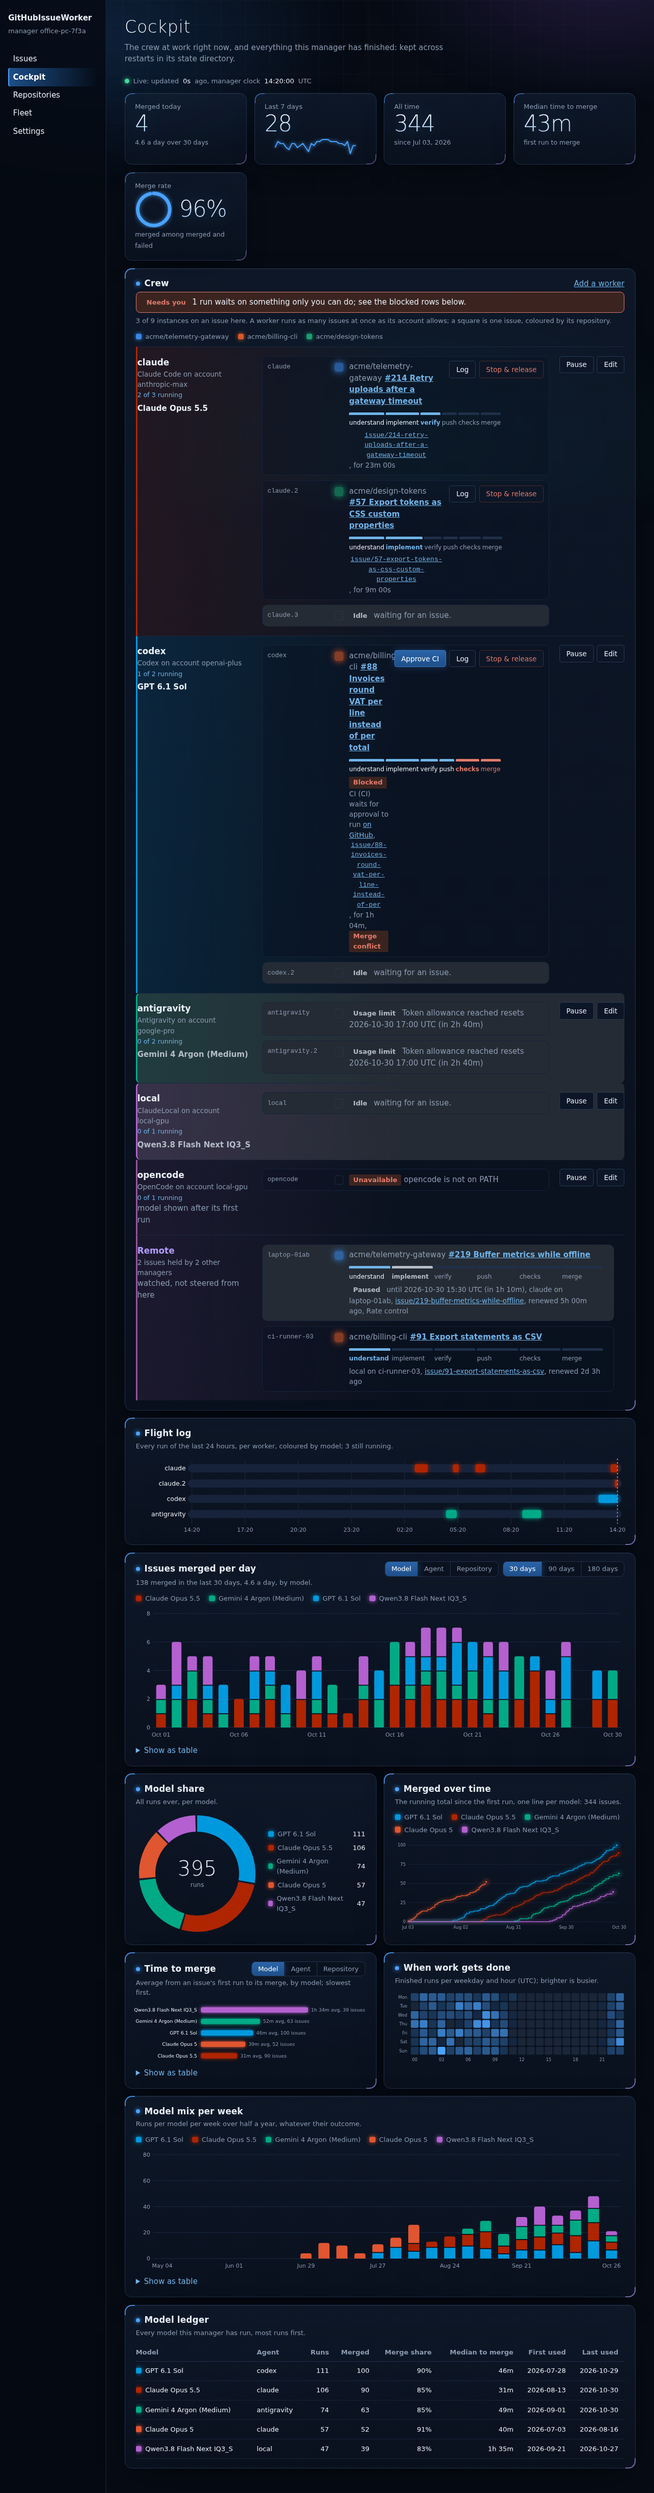
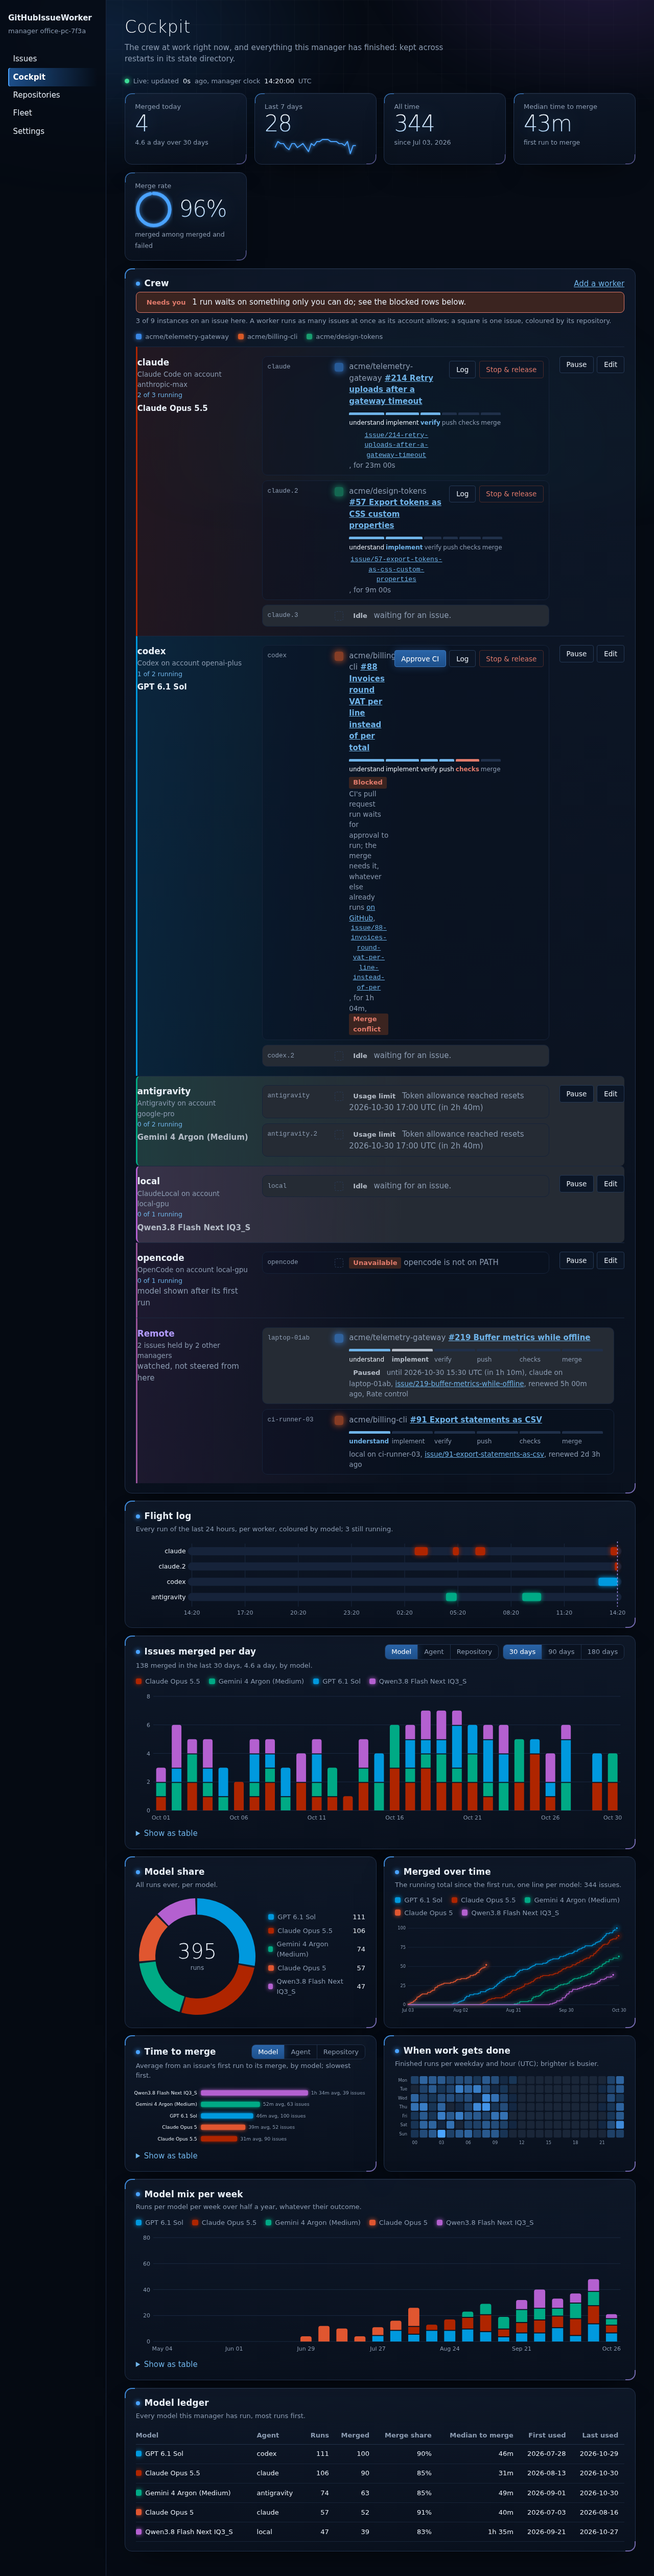
# blockers: precise, one active chip, own CI approved (#56)
# an approved, running run no longer counts as waiting
* the blocker names which run waits and that the merge needs it
* one active step chip; conflicts and blockers mark only the current one
+ CI of the repository own branches is approved by the manager

diff --git a/src/github_issue_worker/application/issue_run.py b/src/github_issue_worker/application/issue_run.py
@@ -29,7 +29,13 @@ from github_issue_worker.domain.split import (
 from github_issue_worker.domain.work import RunKind
 from github_issue_worker.ports.agents import AgentRun, RunReport
 from github_issue_worker.ports.clock import Clock
-from github_issue_worker.ports.repository import Blocker, Check, PullRequest, RepositoryHost
+from github_issue_worker.ports.repository import (
+    Blocker,
+    Check,
+    PullRequest,
+    RepositoryHost,
+    WaitingRun,
+)
 from github_issue_worker.ports.workspace import WorkspacePort
 from github_issue_worker.product import MARKER_PREFIX
 
@@ -65,6 +71,12 @@ _REBASE = frozenset({"dirty", "behind"})
 _FAILED = frozenset({"failure", "timed_out", "cancelled", "action_required", "startup_failure"})
 _NOT_STARTED = ("job was not started", "spending limit", "billing")
 """Signs that CI never ran the job, which no change to the code can repair (seen live)."""
+
+
+def _described(run: WaitingRun) -> str:
+    """ "CI's pull request run": which of the workflow's runs waits, by what started it."""
+    kind = {"pull_request": "pull request", "workflow_dispatch": "dispatched", "push": "push"}
+    return f"{run.name}'s {kind.get(run.event, run.event or 'held')} run"
 
 
 def _never_started(check: Check) -> bool:
@@ -417,27 +429,38 @@ class IssueRun:
                 return "ci", "The pull request's checks fail:\n\n" + "\n".join(lines)
             if self.clock.now() >= deadline:
                 return "timeout", ""
-            self._report_approvals(current)
-            self.sleep(self.settings.check_interval.total_seconds())
+            waiting = self._report_approvals(current)
+            # Someone may approve any moment: look again soon, so the blocker goes as soon as
+            # the runs start.
+            interval = self.settings.check_interval.total_seconds()
+            self.sleep(min(interval, 10.0) if waiting else interval)
 
     def _conflict(self, conflict: bool) -> None:
         self._handle = self.coordinator.set_merge_conflict(self._handle, conflict)
         self.conflict_changed(conflict)
 
-    def _report_approvals(self, current: PullRequest) -> None:
+    def _report_approvals(self, current: PullRequest) -> bool:
         """CI that GitHub holds back for approval would wait silently; say so where it shows."""
         waiting = self.host.waiting_for_approval(current.head_sha)
+        # Runs of this repository's own branch (the manager's pushes, the screenshot bot) are
+        # approved here; only a fork's need a person.
+        for run in waiting:
+            if run.own:
+                self._fenced(partial(self.host.approve_run, run.id))
+        waiting = [run for run in waiting if not run.own]
         if not waiting:
             self.blocked(None)
-            return
-        names = ", ".join(sorted({run.name for run in waiting}))
+            return False
+        names = ", ".join(sorted({_described(run) for run in waiting}))
         self.blocked(
             Blocker(
-                reason=f"CI ({names}) waits for approval to run",
+                reason=f"{names} {'waits' if len(waiting) == 1 else 'wait'} for approval to run; "
+                "the merge needs it, whatever else already runs",
                 url=waiting[0].url or current.url,
                 approvals=tuple(run.id for run in waiting),
             )
         )
+        return True
 
     def _merge(
         self, issue: Issue, pull: PullRequest, branch: str, tree: Path, base: str

diff --git a/tests/application/test_issue_run.py b/tests/application/test_issue_run.py
@@ -428,9 +428,36 @@ def test_conflict_detected_at_merge_is_checkpointed_before_the_merge_fails(
 def test_ci_waiting_for_approval_is_reported_as_a_blocker_until_it_runs(tmp_path: Path) -> None:
     h = Harness(tmp_path, lambda h: [step(h.workspace, ok())])
     h.host.states = ["blocked", "blocked", "clean"]
-    h.host.approvals = [[WaitingRun(7, "CI", "https://x/runs/7")], []]
+    h.host.approvals = [[WaitingRun(7, "CI", "https://x/runs/7", "pull_request")], []]
     seen: list[str | None] = []
     run = h.run(blocked=lambda blocker: seen.append(blocker.reason if blocker else None))
     assert run.kind == "merged"
-    assert seen[0] is not None and "waits for approval" in seen[0] and "CI" in seen[0]
+    assert seen[0] == (
+        "CI's pull request run waits for approval to run; the merge needs it, whatever else "
+        "already runs"
+    )
     assert seen[-1] is None  # cleared once the run started
+
+
+def test_while_ci_waits_for_approval_the_run_looks_again_within_ten_seconds(
+    tmp_path: Path,
+) -> None:
+    h = Harness(tmp_path, lambda h: [step(h.workspace, ok())])
+    h.host.states = ["blocked", "blocked", "clean"]
+    h.host.approvals = [[WaitingRun(7, "CI", "https://x/runs/7", "pull_request")], []]
+    slept: list[float] = []
+    original = h.clock.advance
+    h.clock.advance = lambda delta: (slept.append(delta.total_seconds()), original(delta))[1]  # type: ignore[method-assign]
+    assert h.run().kind == "merged"
+    assert slept[0] == 10.0  # blocked: soon again
+    assert slept[1] == 30.0  # no longer blocked: the normal interval
+
+
+def test_ci_of_the_repositorys_own_branch_is_approved_without_asking(tmp_path: Path) -> None:
+    h = Harness(tmp_path, lambda h: [step(h.workspace, ok())])
+    h.host.states = ["blocked", "clean"]
+    h.host.approvals = [[WaitingRun(9, "CI", "https://x/runs/9", "pull_request", own=True)], []]
+    seen: list[object] = []
+    assert h.run(blocked=seen.append).kind == "merged"
+    assert h.host.approved == [9]
+    assert all(blocker is None for blocker in seen)  # nobody was asked

diff --git a/tests/application/test_github_host.py b/tests/application/test_github_host.py
@@ -202,12 +202,40 @@ def test_runs_waiting_for_approval_are_found_and_approved() -> None:
         {
             ("GET", f"repos/{REPO}/actions/runs"): {
                 "workflow_runs": [
-                    {"id": 7, "name": "CI", "html_url": "https://x/runs/7"},
+                    {
+                        "id": 7,
+                        "name": "CI",
+                        "event": "pull_request",
+                        "status": "completed",
+                        "conclusion": "action_required",
+                        "html_url": "https://x/runs/7",
+                        "head_repository": {"full_name": "someone/fork"},
+                    },
+                    {
+                        "id": 9,
+                        "name": "CI",
+                        "event": "pull_request",
+                        "status": "completed",
+                        "conclusion": "action_required",
+                        "html_url": "https://x/runs/9",
+                        "head_repository": {"full_name": REPO},
+                    },
+                    # approved a moment ago and running: no longer waiting, whatever the filter
+                    {
+                        "id": 8,
+                        "name": "CI",
+                        "event": "pull_request",
+                        "status": "in_progress",
+                        "conclusion": None,
+                        "html_url": "https://x/runs/8",
+                    },
                 ]
             }
         }
     )
-    ((waiting),) = gh.waiting_for_approval("abc")
-    assert (waiting.id, waiting.name, waiting.url) == (7, "CI", "https://x/runs/7")
+    fork, own = gh.waiting_for_approval("abc")
+    assert (fork.id, fork.name, fork.url, fork.own) == (7, "CI", "https://x/runs/7", False)
+    assert fork.event == "pull_request"
+    assert (own.id, own.own) == (9, True)
     gh.approve_run(7)
     assert ("POST", f"repos/{REPO}/actions/runs/7/approve", None) in api.calls

diff --git a/tests/ui/test_app.py b/tests/ui/test_app.py
@@ -580,10 +580,13 @@ def test_a_run_blocked_on_ci_approval_says_so_and_can_be_approved(
     crew = html.split('aria-label="Crew"', 1)[1].split("</section>", 1)[0]
     assert "Needs you" in crew and "1 run waits on something only you can do" in crew
     codex = crew.split('aria-label="codex"', 1)[1].split("class=lane", 1)[0]
-    assert '"flag blocked">Blocked</span> CI (CI) waits for approval to run' in codex
+    assert (
+        '"flag blocked">Blocked</span> CI&#x27;s pull request run waits for approval to run'
+        in codex
+    )
     assert "https://github.com/acme/billing-cli/actions/runs/9120391" in codex
     assert 'action="/workers/codex/approve-ci"' in codex
-    assert "blocked: CI (CI) waits for approval to run" in client.get("/").text
+    assert "blocked: CI&#x27;s pull request run waits for approval to run" in client.get("/").text
 
     response = client.post("/workers/codex/approve-ci")
     assert response.status_code == 200 and backend.approved == ["codex"]
@@ -594,6 +597,9 @@ def test_a_run_blocked_on_ci_approval_says_so_and_can_be_approved(
 def test_a_blocked_runs_current_step_chip_is_marked_blocked(client: TestClient) -> None:
     crew = client.get("/workers").text.split('aria-label="Crew"', 1)[1].split("</section>", 1)[0]
     codex = crew.split('aria-label="codex"', 1)[1].split("class=lane", 1)[0]
-    assert '<span class="now blocked" aria-current="step" title="Blocked: CI (CI) waits' in codex
+    assert (
+        '<span class="now conflict blocked" aria-current="step" '
+        'title="Merge conflict; Blocked: CI&#x27;s pull request run waits'
+    ) in codex
     claude = crew.split('aria-label="claude"', 1)[1].split("class=lane", 1)[0]
     assert '<span class="now" aria-current="step">verify<' in claude  # active, not blocked

diff --git a/src/github_issue_worker/ui/pages.py b/src/github_issue_worker/ui/pages.py
@@ -422,7 +422,7 @@ svg.chart { display: block; width: 100%; height: auto; overflow: visible; }
     50% { border-top-color: #e2f2ff; color: #e2f2ff; background-color: #4aa3ff40;
       box-shadow: inset 0 18px 22px -6px #4aa3ff, 0 0 22px 0 #4aa3ffcc;
       text-shadow: 0 0 10px #4aa3ff, 0 0 3px #ffffff; } }
-  .track span.blocked { animation: alarm .6s ease-in-out infinite; }
+  .track span.blocked, .track span.conflict { animation: alarm .6s ease-in-out infinite; }
   @keyframes alarm {
     0%, 100% { box-shadow: inset 0 8px 10px -8px var(--brick); text-shadow: none;
       background-color: #e07a6b14; }
@@ -788,12 +788,15 @@ def _track(
     for index, name in enumerate(STEPS):
         css = "now" if index == position else "past" if index < position else ""
         title = ""
-        if name == "merge" and merge_conflict:
-            css = (css + " conflict").strip()
-            title = ' title="Merge conflict"'
-        elif index == position and blocked:
-            css = (css + " blocked").strip()
-            title = f' title="Blocked: {e(blocked)}"'
+        # One chip is active: the current step. Whatever needs the user marks it, and only it.
+        reasons = [
+            *(["Merge conflict"] if merge_conflict else []),
+            *([f"Blocked: {blocked}"] if blocked else []),
+        ]
+        if index == position and reasons:
+            marks = [*(["conflict"] if merge_conflict else []), *(["blocked"] if blocked else [])]
+            css = " ".join([css, *marks])
+            title = f' title="{e("; ".join(reasons))}"'
         elif index == position and waiting:
             css = (css + " waiting").strip()
         current = ' aria-current="step"' if index == position else ""

diff --git a/tests/ui/test_feedback_colors.py b/tests/ui/test_feedback_colors.py
@@ -48,15 +48,25 @@ def test_resource_wait_chip_preserves_reason_reset_and_conflict(state: WorkerSta
     html = _agent_row((worker,), NOW, {}, NO_COLOURS)
     assert f'class="flag {state}"' in html
     assert "Spending allowance reached" in html and "resets" in html
-    assert 'class="conflict"' in html and "Merge conflict" in html
+    assert "Merge conflict" in html
 
 
-def test_merge_chip_stays_red_during_repairs_and_clears_on_resolution() -> None:
+def test_a_merge_conflict_marks_the_current_chip_only_and_clears_on_resolution() -> None:
     for step in ("implement", "verify", "checks", "merge"):
         track = _track(step, merge_conflict=True)
-        assert ">merge</span>" in track and 'title="Merge conflict"' in track
-        assert 'class="conflict"' in track or 'class="now conflict"' in track
+        assert track.count('class="now conflict"') == 1  # exactly one chip needs the user
+        assert f'class="now conflict" aria-current="step" title="Merge conflict">{step}<' in track
     assert "conflict" not in _track("merge", merge_conflict=False)
+
+
+def test_there_is_only_ever_one_active_chip() -> None:
+    track = _track("checks", merge_conflict=True, blocked="CI waits")
+    assert track.count("aria-current") == 1
+    assert (
+        'class="now conflict blocked" aria-current="step" title="Merge conflict; Blocked: CI waits">'
+        in track
+    )
+    assert '<span class="">merge</span>' in track
 
 
 def test_live_refresh_clears_feedback_and_resource_wait_colors(

diff --git a/tests/ui/test_feedback_colors_browser.py b/tests/ui/test_feedback_colors_browser.py
@@ -43,8 +43,9 @@ def test_demo_wait_and_conflict_colors_are_readable_in_both_schemes(
         )
         expect(limited.locator(".flag.limited").first).to_have_css("color", "rgb(180, 188, 199)")
         conflict = page.locator('[aria-label="codex"] .track .conflict')
-        assert conflict.inner_text() == "merge"
-        assert conflict.get_attribute("title") == "Merge conflict"
+        assert conflict.inner_text() == "checks"  # the current step, never a later one
+        assert (conflict.get_attribute("title") or "").startswith("Merge conflict")
+        assert page.locator('[aria-label="codex"] .track [aria-current]').count() == 1
         expect(conflict).to_have_css("border-top-color", "rgb(224, 122, 107)")
         expect(page.locator('[aria-label="claude"] .track .now').first).to_have_css(
             "border-top-color", "rgb(111, 179, 232)"
@@ -102,8 +103,9 @@ def test_current_conflict_and_wait_chips_do_not_pulse_back_to_active_color(
     page = browser.new_page(reduced_motion="no-preference")
     try:
         page.goto(server.url + "/workers")
+        # it pulses, but red and fast, never back to the blue of a step merely in progress
         expect(page.locator('[aria-label="claude"] .track .conflict')).to_have_css(
-            "animation-name", "none"
+            "animation-name", "alarm"
         )
         expect(page.locator(".lane.remote .run.waiting .track .now")).to_have_css(
             "animation-name", "none"

diff --git a/src/github_issue_worker/application/github_host.py b/src/github_issue_worker/application/github_host.py
@@ -202,9 +202,17 @@ class GitHubHost:
             self._path("actions/runs"),
             params={"head_sha": sha, "status": "action_required", "per_page": "100"},
         ).body
+        # The filter alone is not trusted: a run approved a moment ago may still be listed.
         return [
-            WaitingRun(int(run["id"]), str(run.get("name") or "workflow"), run.get("html_url", ""))
+            WaitingRun(
+                int(run["id"]),
+                str(run.get("name") or "workflow"),
+                run.get("html_url", ""),
+                str(run.get("event") or ""),
+                (run.get("head_repository") or {}).get("full_name") == self.repository,
+            )
             for run in (data or {}).get("workflow_runs", [])
+            if run.get("status") == "completed" and run.get("conclusion") == "action_required"
         ]
 
     def approve_run(self, run: int) -> None:

diff --git a/src/github_issue_worker/ui/demo.py b/src/github_issue_worker/ui/demo.py
@@ -134,7 +134,7 @@ WORKERS = (
         worktree="~/.cache/GitHubIssueWorker/acme/billing-cli/issues/88",
         since=NOW - timedelta(hours=1, minutes=4),
         group="codex",
-        blocker="CI (CI) waits for approval to run",
+        blocker="CI's pull request run waits for approval to run; the merge needs it, whatever else already runs",
         blocker_url="https://github.com/acme/billing-cli/actions/runs/9120391",
         agent_kind="codex",
     ),
@@ -285,7 +285,7 @@ ISSUES: tuple[IssueView, ...] = (
         "acme/billing-cli",
         88,
         "Invoices round VAT per line instead of per total",
-        "blocked: CI (CI) waits for approval to run",
+        "blocked: CI's pull request run waits for approval to run; the merge needs it, whatever else already runs",
         "codex",
         MANAGER,
         True,

diff --git a/tests/application/test_manager.py b/tests/application/test_manager.py
@@ -417,7 +417,10 @@ def test_a_finished_run_leaves_no_blocker_behind() -> None:
     original = f.run_issue
 
     def blocked_then_merged(watch, worker, handle, item, comments, kind):  # type: ignore[no-untyped-def]
-        worker.blocker = Blocker("CI (CI) waits for approval to run", approvals=(7,))
+        worker.blocker = Blocker(
+            "CI's pull request run waits for approval to run",
+            approvals=(7,),
+        )
         return original(watch, worker, handle, item, comments, kind)
 
     f.manager.run_issue = blocked_then_merged

diff --git a/src/github_issue_worker/ports/repository.py b/src/github_issue_worker/ports/repository.py
@@ -47,6 +47,10 @@ class WaitingRun:
     id: int
     name: str
     url: str
+    event: str = ""
+    """What started it: ``pull_request`` is the run branch protection waits for."""
+    own: bool = False
+    """Its branch lives in this repository, not a fork: only people who can push started it."""
 
 
 @dataclass(frozen=True, slots=True)

diff --git a/README.md b/README.md
@@ -1180,6 +1180,8 @@ operational items, demonstrated on a real repository. Commits that implement an 
   pull request's CI is held back for approval, the worker's sub-row shows *Blocked* with the
   waiting runs linked and an *Approve CI* button, the crew panel shows *Needs you*, and the Issues
   page says "blocked"; the blocker clears once the runs start.
+  Runs of the repository's own branches (the manager's pushes, the screenshot bot) are approved by
+  the manager itself; only runs of a fork wait for a person.
 - [x] 🟥 **F14.9** `ui.token` is write-only in the UI, and a non-loopback `ui.bind` cannot be saved
   without one.
 - [x] 🟧 **F14.15** One deck for every page: Issues, Repositories, Fleet, Settings, the worker form
@@ -1198,9 +1200,11 @@ operational items, demonstrated on a real repository. Commits that implement an 
 - [x] 🟧 **F14.18** Feedback colours: an issue waiting for a requested human answer has a
   yellow status chip even after its claim is released. Token, spending-allowance and rate-limit
   waits have gray chips, with the reason and reset time when known. Idle, paused and resource-waiting
-  worker boxes are gray; a worker still executing stays active. A merge conflict makes the Merge
-  progress chip red through refreshes, repair steps and restarts until resolution, independently of
-  a gray worker box. Live refresh clears obsolete colours. Status text stays readable in light and
+  worker boxes are gray; a worker still executing stays active. A worker shows exactly one active
+  progress chip, its current step; what needs the user marks that chip and no other. A merge
+  conflict or CI waiting for approval turns the current chip red and makes it pulse rapidly, with
+  the reason as its title, through refreshes, repair steps and restarts until resolution,
+  independently of a gray worker box; otherwise the current chip pulses slowly. Live refresh clears obsolete colours. Status text stays readable in light and
   dark schemes, repository colours keep their meaning, and deterministic demos cover these states.
 - [x] 🟧 **F14.19** Model colours: every model series wears a colour of its maker's hue segment —
   `modelColors.anthropic` from orange to yellow, `.google` green, `.openai` blue, and `.other` a
